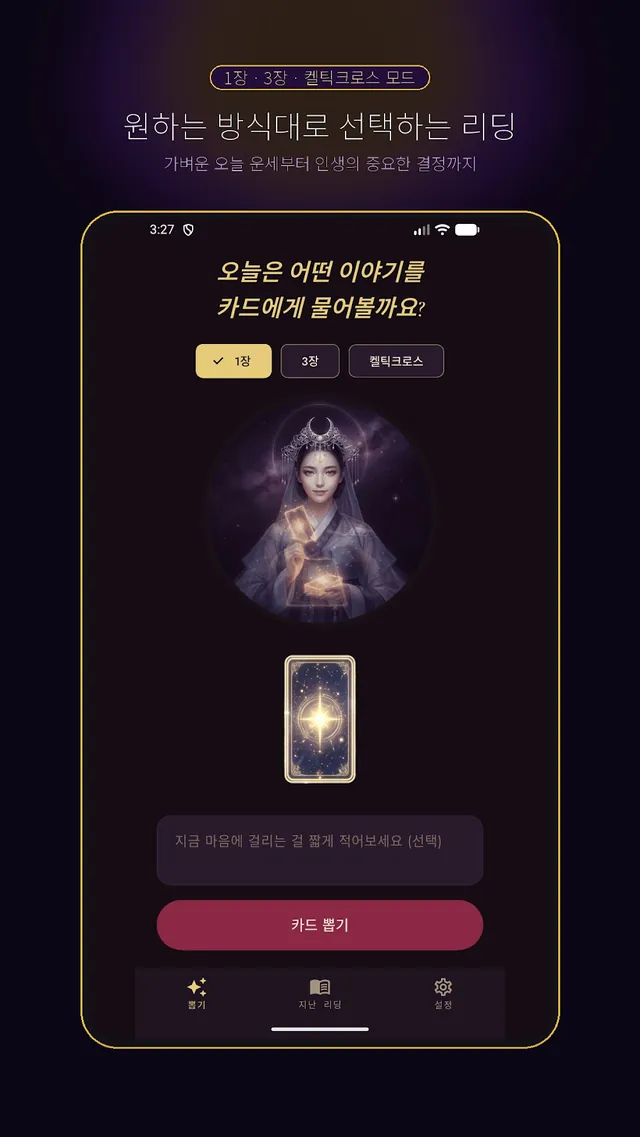
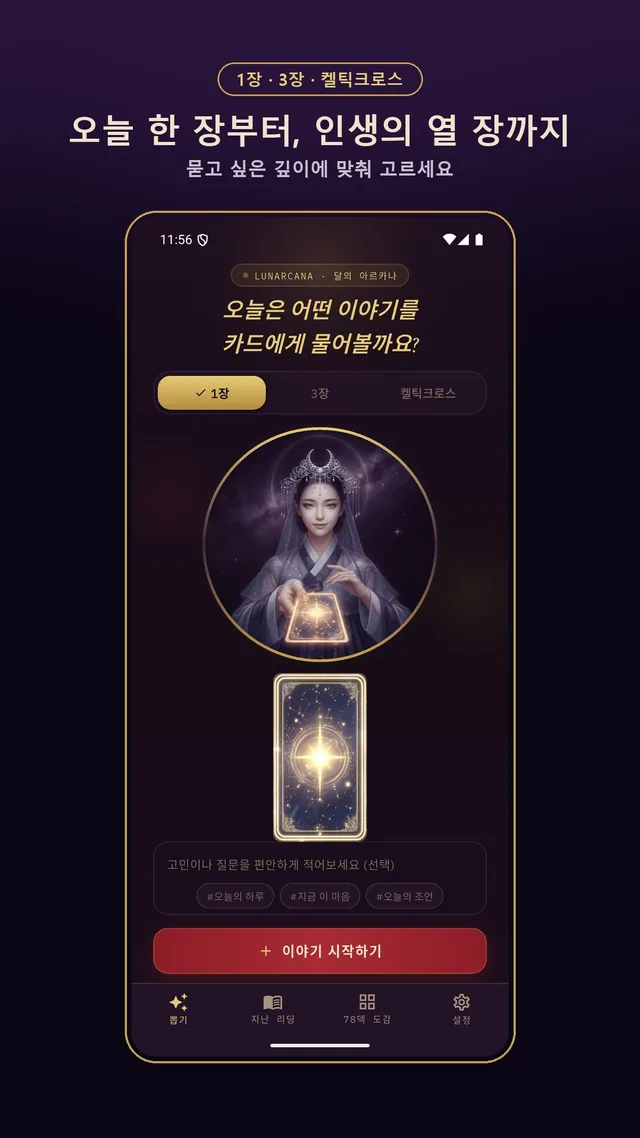
Show the new store screenshots on the landing page
The five Korean store images replace the old four: 1장 모드, 3장 질문,
첫 장 리딩, 마무리, 78덱 도감. Grid goes to five columns, with a new
three-column step before it drops to two.

diff --git a/docs/index.html b/docs/index.html
@@ -159,8 +159,9 @@
 
   /* ================= shots ================= */
   .shots{ padding: 1rem 0 6.5rem; }
-  .shot-grid{ display:grid; grid-template-columns: repeat(4, 1fr); gap:1.4rem; }
-  @media (max-width:860px){ .shot-grid{ grid-template-columns: repeat(2, 1fr); } }
+  .shot-grid{ display:grid; grid-template-columns: repeat(5, 1fr); gap:1.4rem; }
+  @media (max-width:1040px){ .shot-grid{ grid-template-columns: repeat(3, 1fr); } }
+  @media (max-width:760px){ .shot-grid{ grid-template-columns: repeat(2, 1fr); } }
   @media (max-width:520px){ .shot-grid{ grid-template-columns: 1fr; max-width:20rem; margin:0 auto; } }
   .shot{ margin:0; }
   .shot img{ width:100%; height:auto; display:block; border-radius:14px; border:1px solid var(--line-soft); }
@@ -354,20 +355,24 @@
     </div>
     <div class="shot-grid">
       <figure class="shot">
-        <img src="shots/01-modes.webp" width="640" height="1137" alt="1장·3장·켈틱크로스 중에서 리딩 방식을 고르는 화면" loading="lazy">
+        <img src="shots/01-modes.webp" width="640" height="1138" alt="1장·3장·켈틱크로스 중에서 리딩 방식을 고르는 화면" loading="lazy">
         <figcaption>모드 — 고민의 크기만큼 카드 수를 고른다</figcaption>
       </figure>
       <figure class="shot">
-        <img src="shots/02-ask.webp" width="640" height="1137" alt="질문을 적고 카드 뽑기 버튼을 누르는 화면" loading="lazy">
+        <img src="shots/02-three.webp" width="640" height="1138" alt="3장 모드에서 질문을 적고 카드 뽑기를 기다리는 화면" loading="lazy">
         <figcaption>질문 — 마음에 걸리는 걸 한 줄로 적는다</figcaption>
       </figure>
       <figure class="shot">
-        <img src="shots/03-first-card.webp" width="640" height="1137" alt="켈틱크로스 첫 장으로 연인 카드가 펼쳐진 화면" loading="lazy">
+        <img src="shots/03-reading.webp" width="640" height="1138" alt="3장 리딩의 첫 장으로 달 카드가 펼쳐지고 루나가 해석을 건네는 화면" loading="lazy">
         <figcaption>첫 장 — 뒤집은 그 카드만 읽어준다</figcaption>
       </figure>
       <figure class="shot">
-        <img src="shots/04-celtic.webp" width="640" height="1137" alt="켈틱크로스 네 번째 카드로 컵의 여왕이 펼쳐진 화면" loading="lazy">
-        <figcaption>켈틱크로스 — 열 장을, 한 번에 한 장씩</figcaption>
+        <img src="shots/04-wrapup.webp" width="640" height="1138" alt="마지막 카드까지 읽고 세 장을 하나의 흐름으로 묶어주는 화면" loading="lazy">
+        <figcaption>마무리 — 흩어진 카드가 한 이야기로 묶인다</figcaption>
+      </figure>
+      <figure class="shot">
+        <img src="shots/05-deck.webp" width="640" height="1138" alt="직접 그린 78장 덱을 모아 둔 도감 화면" loading="lazy">
+        <figcaption>78덱 도감 — 한복과 단청으로 새로 그린 78장</figcaption>
       </figure>
     </div>
   </div>
